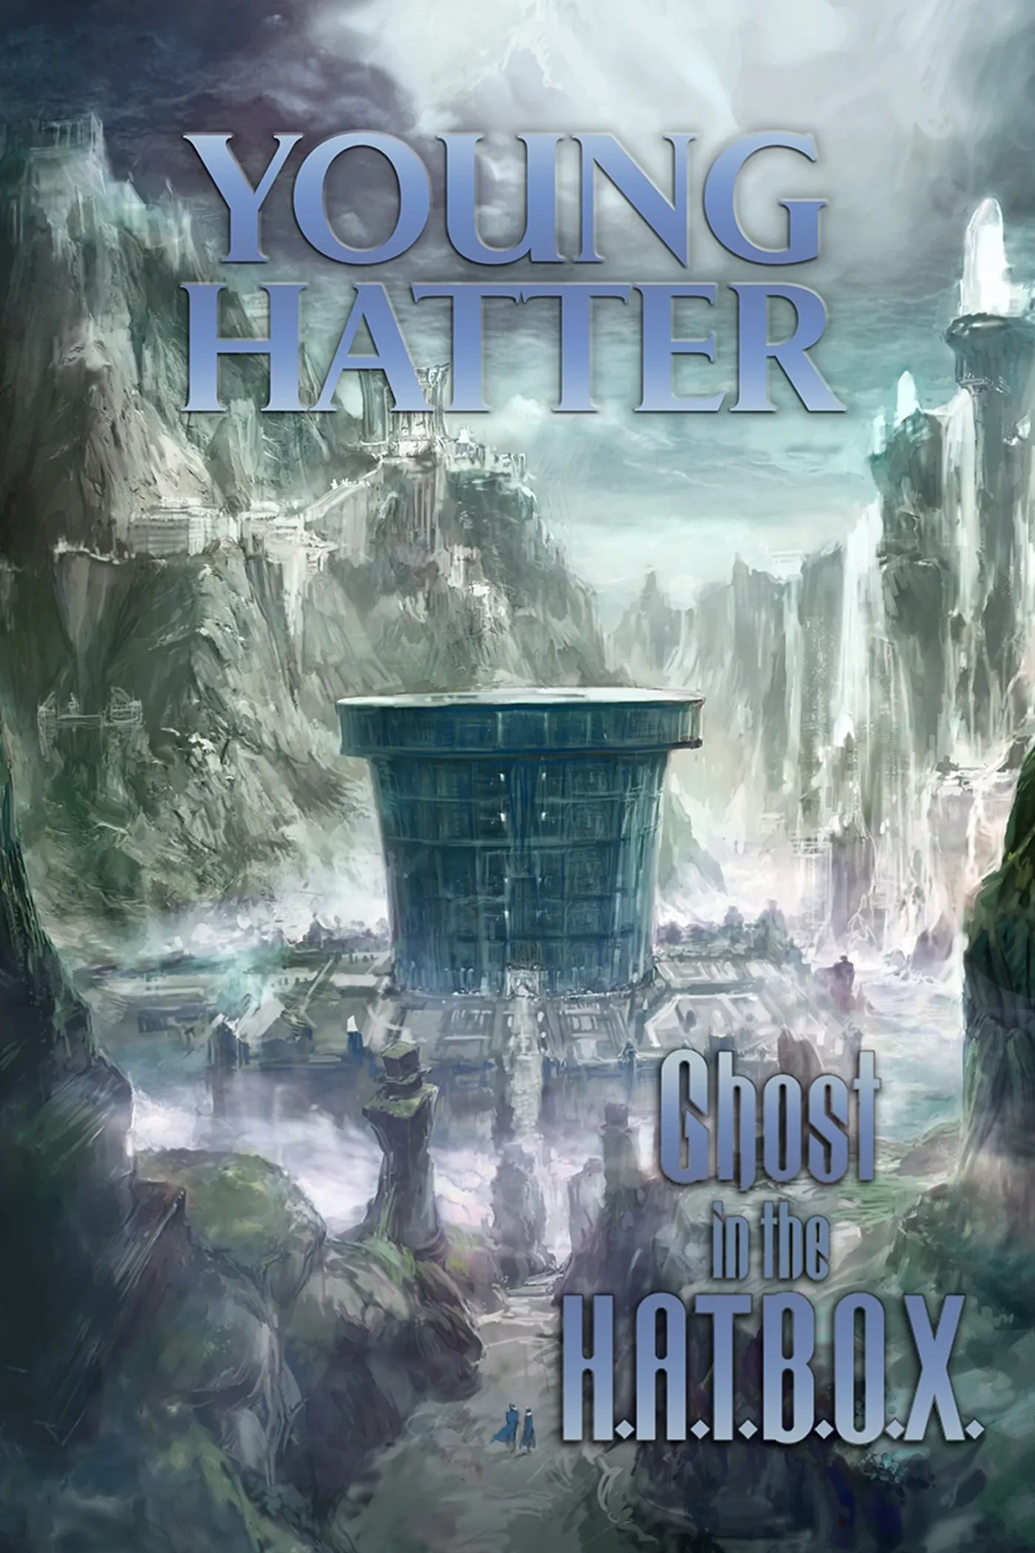
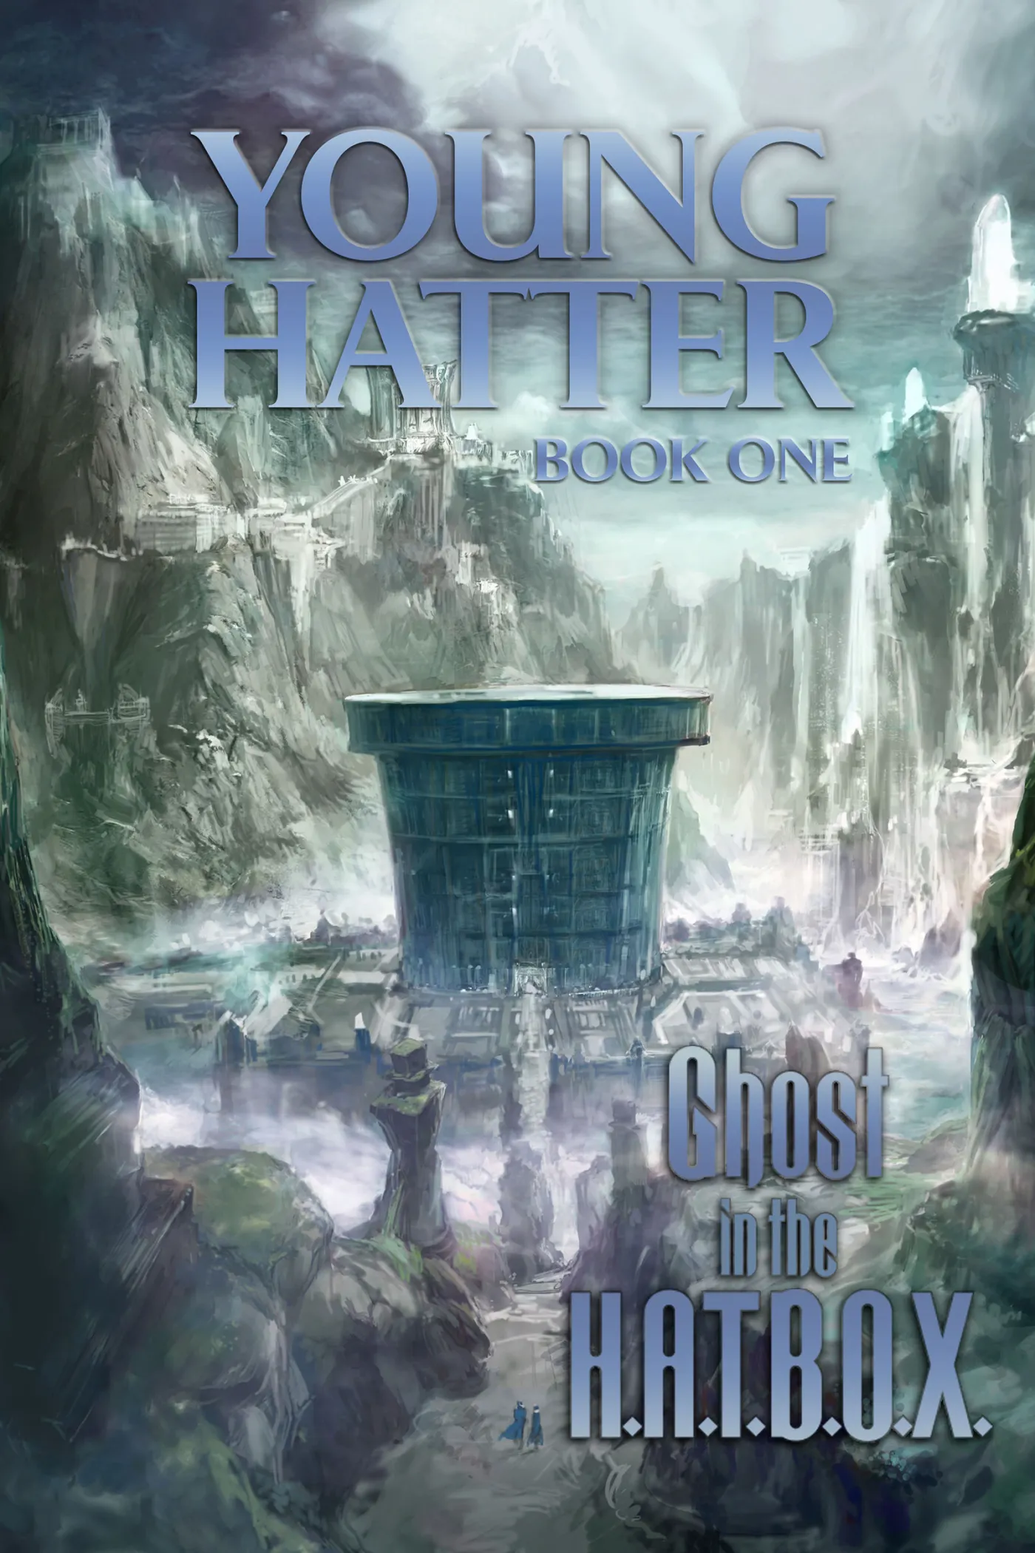
Frank 8/3 Phase 1: homepage text-shift (bridging captions) + Morpurgo quote + press video + new closing; move Sound of Wonder+Meet the Team to home; Visionaries (Explore btn + LGW Library + Visit the Library, Wild Cards under Enter the Millinery, Young Hatter cover); Millinery (Inside the HATBOX hea

diff --git a/index.html b/index.html
@@ -231,6 +231,21 @@
   .chapter .head-sm{ font-family:var(--display); font-weight:600; font-size:clamp(14px,3.2vw,20px); letter-spacing:.14em; color:var(--bone-dim); margin-bottom:22px; }
   .chapter .sub-sm{ font-family:var(--editorial); font-style:italic; font-size:clamp(17px,3.4vw,24px); line-height:1.4; color:var(--glow); margin-top:24px; }
   .quotes{ grid-template-columns:1fr !important; max-width:620px; margin-left:auto; margin-right:auto; }
+  /* Morpurgo quote */
+  .mquote{ max-width:720px; margin:0 auto; text-align:center; }
+  .mquote p{ font-family:var(--editorial); font-style:italic; font-size:clamp(20px,3.6vw,30px); line-height:1.45; color:var(--bone); }
+  .mquote cite{ display:block; margin-top:26px; font-family:var(--ui); font-style:normal; font-size:12px; letter-spacing:.18em; text-transform:uppercase; color:var(--glow); line-height:1.7; }
+  .mquote cite em{ font-style:italic; text-transform:none; letter-spacing:0; }
+  /* moved segments: Sound of Wonder + Meet the Team */
+  .seg{ text-align:center; margin-bottom:clamp(30px,5vh,56px); }
+  .seg-head{ font-family:var(--display); font-weight:900; font-size:clamp(30px,7vw,64px); line-height:1.04; letter-spacing:.04em; color:var(--bone); text-wrap:balance; text-shadow:0 0 50px rgba(143,215,255,.10); }
+  .seg-sub{ font-family:var(--editorial); font-style:italic; font-size:clamp(18px,3.4vw,27px); color:var(--glow); margin-top:16px; }
+  .musical-copy{ max-width:60ch; margin:44px auto 0; font-family:var(--editorial); font-size:clamp(18px,2.8vw,24px); line-height:1.5; color:var(--bone-dim); text-align:center; }
+  .team-text{ max-width:64ch; margin:0 auto; display:flex; flex-direction:column; gap:clamp(38px,6vh,66px); text-align:center; }
+  .team-text .vname{ font-family:var(--display); font-weight:700; font-size:clamp(22px,4.2vw,34px); letter-spacing:.02em; color:var(--bone); }
+  .team-text .credits{ font-family:var(--ui); font-size:clamp(12px,2vw,15px); letter-spacing:.04em; color:var(--bone-dim); margin:14px auto 0; max-width:54ch; line-height:1.6; }
+  .team-text .vbio{ font-family:var(--editorial); font-style:italic; font-size:clamp(18px,2.9vw,25px); line-height:1.44; color:var(--bone-dim); max-width:56ch; margin:14px auto 0; }
+
   @media (prefers-reduced-motion: reduce){
     body::after{ animation:none; }
     .kenburns .ph{ animation:none; }
@@ -241,25 +256,17 @@
 </head>
 <body>
 
-<!-- ==================== ACT I - THE STORY (image -> black text) ==================== -->
+<!-- ==================== ACT I - THE STORY (image -> bridging text below) ==================== -->
 <section class="panel img kenburns op-short">
   <div class="art"><div class="ph" data-img="assets/img/00-act1-lgw-logo.webp"></div></div>
 </section>
 <section class="panel card op-short">
   <div class="content">
-    <p class="ask rise">Go Ask Alyss</p>
+    <p class="ask rise">What if Wonderland Was Real All Along?</p>
   </div>
 </section>
 <section class="panel img kenburns">
   <div class="art"><div class="ph" data-img="assets/img/01-act1-wonderland-panorama.webp" data-img-wide="assets/img/01-act1-wonderland-panorama-wide.webp"><div class="cap"><span class="k">Art · Panorama</span><span class="t">Wondertropolis · Chessboard Desert · House of Cards</span></div></div></div>
-</section>
-<section class="panel card">
-  <div class="content">
-    <p class="ask rise">WHAT IF WONDERLAND WAS REAL ALL ALONG?</p>
-  </div>
-</section>
-<section class="panel img kenburns">
-  <div class="art"><div class="ph" data-img="assets/img/02-act1-aiw-cover.webp"><div class="cap"><span class="k">Art · Cover</span><span class="t">Alice&#39;s Adventures in Wonderland &mdash; original 1865 cover</span></div></div></div>
 </section>
 <section class="panel card">
   <div class="content wide">
@@ -268,7 +275,7 @@
   </div>
 </section>
 <section class="panel img kenburns">
-  <div class="art"><div class="ph" data-img="assets/img/03-act1-alyss-princess.webp"><div class="cap"><span class="k">Art · Kovacs / Appelhans</span><span class="t">Princess Alyss · Alyss&#39;s Birthday</span></div></div></div>
+  <div class="art"><div class="ph" data-img="assets/img/02-act1-aiw-cover.webp"><div class="cap"><span class="k">Art · Cover</span><span class="t">Alice&#39;s Adventures in Wonderland &mdash; original 1865 cover</span></div></div></div>
 </section>
 <section class="panel card">
   <div class="content">
@@ -277,7 +284,7 @@
   </div>
 </section>
 <section class="panel img kenburns">
-  <div class="art"><div class="ph" data-img="assets/img/04-act1-redd-bookcover.webp" data-img-wide="assets/img/04-act1-redd-bookcover-wide.webp"><div class="cap"><span class="k">Art · Vance Kovacs</span><span class="t">Redd &mdash; book cover</span></div></div></div>
+  <div class="art"><div class="ph" data-img="assets/img/03-act1-alyss-princess.webp"><div class="cap"><span class="k">Art · Kovacs / Appelhans</span><span class="t">Princess Alyss · Alyss&#39;s Birthday</span></div></div></div>
 </section>
 <section class="panel card">
   <div class="content">
@@ -286,7 +293,7 @@
   </div>
 </section>
 <section class="panel img kenburns">
-  <div class="art"><div class="ph" data-img="assets/img/05-act1-pool-of-tears.webp" data-img-wide="assets/img/05-act1-pool-of-tears-wide.webp"><div class="cap"><span class="k">Art · Brian Flora</span><span class="t">The Pool of Tears</span></div></div></div>
+  <div class="art"><div class="ph" data-img="assets/img/04-act1-redd-bookcover.webp" data-img-wide="assets/img/04-act1-redd-bookcover-wide.webp"><div class="cap"><span class="k">Art · Vance Kovacs</span><span class="t">Redd &mdash; book cover</span></div></div></div>
 </section>
 <section class="panel card">
   <div class="content wide">
@@ -295,7 +302,7 @@
   </div>
 </section>
 <section class="panel img kenburns">
-  <div class="art"><div class="ph" data-img="assets/img/06-act1-hatter-alyss-whirlpool.webp"><div class="cap"><span class="k">Art · Ben Templesmith</span><span class="t">Hatter &amp; Alyss in the Whirlpool</span></div></div></div>
+  <div class="art"><div class="ph" data-img="assets/img/05-act1-pool-of-tears.webp" data-img-wide="assets/img/05-act1-pool-of-tears-wide.webp"><div class="cap"><span class="k">Art · Brian Flora</span><span class="t">The Pool of Tears</span></div></div></div>
 </section>
 <section class="panel card">
   <div class="content">
@@ -305,7 +312,7 @@
   </div>
 </section>
 <section class="panel img kenburns">
-  <div class="art"><div class="ph" data-img="assets/img/07-act1-alyss-in-london.webp" data-img-wide="assets/img/07-act1-alyss-in-london-wide.webp"><div class="cap"><span class="k">Art · Toby Wilson</span><span class="t">Alyss in London</span></div></div></div>
+  <div class="art"><div class="ph" data-img="assets/img/06-act1-hatter-alyss-whirlpool.webp"><div class="cap"><span class="k">Art · Ben Templesmith</span><span class="t">Hatter &amp; Alyss in the Whirlpool</span></div></div></div>
 </section>
 <section class="panel card">
   <div class="content">
@@ -315,12 +322,12 @@
   </div>
 </section>
 <section class="panel img kenburns">
-  <div class="art"><div class="ph" data-img="assets/img/08-act1-carroll-reveal.webp" data-img-wide="assets/img/08-act1-carroll-reveal-wide.webp"><div class="cap"><span class="k">Art · Historical</span><span class="t">Lewis Carroll &amp; Alice Liddell</span></div></div></div>
+  <div class="art"><div class="ph" data-img="assets/img/07-act1-alyss-in-london.webp" data-img-wide="assets/img/07-act1-alyss-in-london-wide.webp"><div class="cap"><span class="k">Art · Toby Wilson</span><span class="t">Alyss in London</span></div></div></div>
 </section>
 <section class="panel card">
   <div class="content wide">
     <p class="line rise">Alone in Victorian England&hellip;</p>
-    <p class="line rise d1">Alyss told her story to Charles Dodgson.</p>
+    <p class="line rise d1">Alyss told her story to <b>Lewis Carroll.</b></p>
     <p class="line rise d1">He believed her grief.</p>
     <p class="line rise d2">He believed her fear.</p>
     <p class="line rise d2">He simply couldn&#39;t believe her world.</p>
@@ -330,12 +337,21 @@
   </div>
 </section>
 <section class="panel img kenburns">
-  <div class="art"><div class="ph" data-img="assets/img/09-act1-alice-vs-alyss.webp" data-img-wide="assets/img/09-act1-alice-vs-alyss-wide.webp"><div class="cap"><span class="k">Art · Comparison</span><span class="t">Tenniel&#39;s Alice vs Catia Chien&#39;s Alyss</span></div></div></div>
+  <div class="art"><div class="ph" data-img="assets/img/08-act1-carroll-reveal.webp" data-img-wide="assets/img/08-act1-carroll-reveal-wide.webp"><div class="cap"><span class="k">Art · Historical</span><span class="t">Lewis Carroll &amp; Alice Liddell</span></div></div></div>
 </section>
 <section class="panel card chapter">
   <div class="content">
     <p class="head-sm rise">PUT ASIDE WHAT YOU THINK YOU KNOW.</p>
     <p class="b rise d1">DISCOVER THE TRUTH</p>
+  </div>
+</section>
+<section class="panel img kenburns">
+  <div class="art"><div class="ph" data-img="assets/img/09-act1-alice-vs-alyss.webp" data-img-wide="assets/img/09-act1-alice-vs-alyss-wide.webp"><div class="cap"><span class="k">Art · Comparison</span><span class="t">Tenniel&#39;s Alice vs Catia Chien&#39;s Alyss</span></div></div></div>
+</section>
+<section class="panel card char">
+  <div class="content">
+    <p class="name rise">ALYSS HEART</p>
+    <p class="desc rise d1">She was born a princess.<br>She chose to become a queen.</p>
   </div>
 </section>
 
@@ -345,21 +361,12 @@
 </section>
 <section class="panel card char">
   <div class="content">
-    <p class="name rise d1">ALYSS HEART</p>
-    <p class="desc rise d2">She was born a princess.<br>She became a queen.</p>
-  </div>
-</section>
-<section class="panel img kenburns">
-  <div class="art"><div class="ph" data-img="assets/img/11-act2-hatter-on-smoke.webp" data-img-wide="assets/img/11-act2-hatter-on-smoke-wide.webp"><div class="cap"><span class="k">Art · MK</span><span class="t">Hatter on Smoke</span></div></div></div>
-</section>
-<section class="panel card char">
-  <div class="content">
     <p class="name rise">HATTER MADIGAN</p>
     <p class="desc rise d1">He crossed two worlds searching for someone who no longer remembered him.</p>
   </div>
 </section>
 <section class="panel img kenburns">
-  <div class="art"><div class="ph" data-img="assets/img/12-act2-redd.webp" data-img-wide="assets/img/12-act2-redd-wide.webp"><div class="cap"><span class="k">Art · Vance Kovacs</span><span class="t">Redd</span></div></div></div>
+  <div class="art"><div class="ph" data-img="assets/img/11-act2-hatter-on-smoke.webp" data-img-wide="assets/img/11-act2-hatter-on-smoke-wide.webp"><div class="cap"><span class="k">Art · MK</span><span class="t">Hatter on Smoke</span></div></div></div>
 </section>
 <section class="panel card char">
   <div class="content">
@@ -368,23 +375,35 @@
   </div>
 </section>
 <section class="panel img kenburns">
-  <div class="art"><div class="ph" data-img="assets/img/13-act2-the-cat.webp" data-img-wide="assets/img/13-act2-the-cat-wide.webp"><div class="cap"><span class="k">Art · Vance Kovacs</span><span class="t">The Attack Cat</span></div></div></div>
+  <div class="art"><div class="ph" data-img="assets/img/12-act2-redd.webp" data-img-wide="assets/img/12-act2-redd-wide.webp"><div class="cap"><span class="k">Art · Vance Kovacs</span><span class="t">Redd</span></div></div></div>
 </section>
 <section class="panel card char">
   <div class="content">
     <p class="name rise">THE CAT</p>
-    <p class="desc rise d1">He turned fear into a weapon &mdash; and became the nightmare no child ever forgets.</p>
-  </div>
-</section>
-<!-- ==================== ACT III - THE STORY THAT NEVER ENDED ==================== -->
-<section class="panel card">
-  <div class="content">
-    <p class="ask rise">EVERYTHING BEGAN HERE.</p>
+    <p class="desc rise d1">He began as a weapon. He became something more.</p>
   </div>
 </section>
 <section class="panel img kenburns">
+  <div class="art"><div class="ph" data-img="assets/img/13-act2-the-cat.webp" data-img-wide="assets/img/13-act2-the-cat-wide.webp"><div class="cap"><span class="k">Art · Vance Kovacs</span><span class="t">The Attack Cat</span></div></div></div>
+</section>
+<section class="panel card">
+  <div class="content">
+    <p class="ask rise">Alyss&#39;s Story Starts Here</p>
+  </div>
+</section>
+
+<!-- ==================== ACT III ==================== -->
+<section class="panel img kenburns">
   <div class="art"><div class="ph" data-img="assets/img/14-act3-lgw-cover.webp"><div class="cap"><span class="k">Cover</span><span class="t">The Looking Glass Wars</span></div></div></div>
 </section>
+
+<!-- Morpurgo quote -->
+<div class="band" style="padding:clamp(70px,13vh,150px) 0"><div class="inner">
+  <blockquote class="mquote rise">
+    <p>&ldquo;I think the remarkable thing about the book is it&#39;s very vibrant, it&#39;s imaginative, it&#39;s visual, it&#39;s very well researched. What Frank has done is he&#39;s interwoven the history&hellip; of Alice and then told his own extraordinary, and believably visual and fast-moving tale.&rdquo;</p>
+    <cite class="rise d1">&mdash; Sir Michael Morpurgo,<br>Author of <em>War Horse</em>, Children&#39;s Laureate</cite>
+  </blockquote>
+</div></div>
 
 <div class="stack-band">
   <!-- Authority: NYT Bestseller (designed white-on-black graphic) + press acclaim -->
@@ -441,7 +460,7 @@
   <!-- Media Interest (Frank Beddor Press Reel) -->
   <div class="band" style="padding-top:0"><div class="inner">
     <span class="eyebrow rise">Media Interest</span>
-    <div class="ytfacade rise d1" data-yt="_mW_imW4gqg" style="max-width:860px;margin:6px auto 0;aspect-ratio:16/9;background-image:url('assets/img/media-interest-thumb.webp')"><button class="ytplay" aria-label="Play - Frank Beddor Press Reel"></button></div>
+    <div class="ytfacade rise d1" data-yt="VfYlsYILhIY" style="max-width:860px;margin:6px auto 0;aspect-ratio:16/9;background-image:url('assets/img/media-interest-thumb.webp')"><button class="ytplay" aria-label="Play - Frank Beddor Press Reel"></button></div>
   </div></div>
 
   <!-- Closing -->
@@ -453,14 +472,31 @@
     <p class="final rise d3">IMAGINATION CHANGES REALITY.</p>
     <div class="creed rise" style="margin-top:38px">
       <p class="l">Every invention begins as an idea.</p>
-      <p class="l">Every civilization begins as a story.</p>
+      <p class="l">Every civilization has its story.</p>
       <p class="l">Whoever shapes imagination shapes the future.</p>
-      <p class="l strong">That&#39;s what&#39;s at stake in The Looking Glass Wars.</p>
+      <p class="l strong">That is the Looking Glass Wars.</p>
     </div>
-    <div class="ytfacade rise" data-yt="JhD3f9caS5o" style="max-width:760px;margin:clamp(150px,28vh,320px) auto 0;aspect-ratio:16/9;background-image:url('assets/img/wildcards-thumb.webp')"><button class="ytplay" aria-label="Play - Cards Wild Trailer"></button></div>
-    <div class="choices rise" style="margin-top:46px">
-      <a class="btn" href="visionaries.html">Visions of Wonderland</a>
+  </div></div>
+
+  <!-- The Sound of Wonder (moved from Visionaries) -->
+  <div class="band"><div class="inner">
+    <div class="seg"><div class="seg-head rise">The Sound of Wonder</div><div class="seg-sub rise d1">When the heart can no longer speak&hellip; it sings.</div></div>
+    <div class="center"><div class="ytfacade rise" data-yt="BaXb30RQfa8" style="max-width:340px;aspect-ratio:9/16;background-image:url('assets/img/viz-aow-thumb.webp')"><button class="ytplay" aria-label="Play - Follow the Glow"></button></div></div>
+    <p class="musical-copy rise">The Looking Glass Wars is an epic musical with a soaring pop-inspired score, breathtaking spectacle, and timeless themes of identity, love, courage, and imagination.</p>
+  </div></div>
+
+  <!-- Meet the Team (moved from Visionaries) -->
+  <div class="band" style="padding-top:0"><div class="inner">
+    <div class="center" style="margin-bottom:clamp(30px,5vh,60px)"><span class="eyebrow rise">Meet the Team</span></div>
+    <div class="team-text">
+      <div class="rise"><div class="vname">Music &amp; Lyrics &mdash; Pippa Cleary</div><p class="credits">The Great British Bake Off Musical &bull; The Secret Diary of Adrian Mole Aged 13&frac34; &ndash; The Musical &bull; My Son&#39;s a Queer (But What Can You Do?) (Olivier Award nominee)</p><p class="vbio">The first female composer to have three original musicals produced on London&#39;s West End.</p></div>
+      <div class="rise d1"><div class="vname">Book &amp; Lyrics &mdash; Shaun McKenna</div><p class="credits">The Lord of the Rings &ndash; A Musical Tale &bull; The Return of Peter Pan &bull; Heidi</p><p class="vbio">One of Britain&#39;s most accomplished musical dramatists, Shaun has built his career adapting beloved literary worlds.</p></div>
     </div>
+  </div></div>
+
+  <!-- final CTA -->
+  <div class="band" style="padding-top:0"><div class="inner">
+    <div class="choices rise"><a class="btn" href="visionaries.html">Visions of Wonderland</a></div>
   </div></div>
 </div>
 

diff --git a/visionaries.html b/visionaries.html
@@ -153,28 +153,12 @@
   </div>
 </section>
 
-<!-- THE SOUNDS OF WONDER (musical) -->
+<!-- Explore Wonderland + Library (moved/added) -->
 <section class="band">
-  <div class="wrap">
-    <div class="seg">
-      <div class="seg-head rise">The Sounds of Wonder</div>
-      <div class="seg-sub rise d1">When the heart can no longer speak&hellip; it sings.</div>
-    </div>
-    <div class="center">
-      <div class="ytfacade rise" data-yt="BaXb30RQfa8" style="max-width:340px;aspect-ratio:9/16;background-image:url('assets/img/viz-aow-thumb.webp')"><button class="ytplay" aria-label="Play - Follow the Glow"></button></div>
-    </div>
-    <p class="musical-copy rise">The Looking Glass Wars is an epic musical with a soaring pop-inspired score, breathtaking spectacle, and timeless themes of identity, love, courage, and imagination.</p>
-  </div>
-</section>
-
-<!-- MEET THE TEAM (text only) -->
-<section class="band" style="background:var(--void-2)">
-  <div class="wrap">
-    <div class="center" style="margin-bottom:clamp(30px,5vh,60px)"><span class="eyebrow rise">Meet the Team</span></div>
-    <div class="team-text">
-      <div class="rise"><div class="vname">Music &amp; Lyrics &mdash; Pippa Cleary</div><p class="credits">The Great British Bake Off Musical &bull; The Secret Diary of Adrian Mole Aged 13&frac34; &ndash; The Musical &bull; My Son&#39;s a Queer (But What Can You Do?) (Olivier Award nominee)</p><p class="vbio">The first female composer to have three original musicals produced on London&#39;s West End.</p></div>
-      <div class="rise d1"><div class="vname">Book &amp; Lyrics &mdash; Shaun McKenna</div><p class="credits">The Lord of the Rings &ndash; A Musical Tale &bull; The Return of Peter Pan &bull; Heidi</p><p class="vbio">One of Britain&#39;s most accomplished musical dramatists, Shaun has built his career adapting beloved literary worlds.</p></div>
-    </div>
+  <div class="wrap center">
+    <div class="rise"><a class="btn" href="explore.html">Explore Wonderland</a></div>
+    <div class="keyart rise d1" style="max-width:900px;margin:clamp(50px,9vh,90px) auto 0"><img src="assets/img/viz-lgw-library.webp" alt="The Looking Glass Wars Library" loading="lazy"></div>
+    <div class="rise d1" style="margin-top:clamp(34px,5vh,50px)"><a class="btn" href="library.html">Visit the Library</a></div>
   </div>
 </section>
 
@@ -201,7 +185,6 @@
     </div>
     <div class="keyart rise" style="max-width:520px;margin:0 auto"><img src="assets/img/viz-dormouse.webp" alt="The Dormouse — Blade of Time graphic novel" loading="lazy"></div>
     <p class="flavor rise">The Dormouse&#39;s consciousness no longer belongs to one timeline. As Hatter Madigan is pulled between past and present&hellip; every decision threatens to rewrite history.</p>
-    <div class="rise" style="margin-top:52px"><a class="btn" href="explore.html">Explore Wonderland</a></div>
   </div>
 </section>
 
@@ -214,6 +197,7 @@
     <div class="keyart rise" style="max-width:440px;margin:0 auto"><img src="assets/img/viz-young-hatter-cover.webp" alt="Young Hatter — Girl in the Hatbox cover" loading="lazy"></div>
     <p class="bodytext rise">The Millinery trains Wonderland&#39;s most elite soldiers &mdash; warriors whose weapons are their hats. Getting in is the hard part. Surviving year one is harder. Young Hatter is a propulsive new adventure featuring a teenage Hatter Madigan &mdash; the most beloved character from Frank Beddor&#39;s series.</p>
     <div class="rise" style="margin-top:52px"><a class="btn" href="millinery.html">Enter the Millinery</a></div>
+    <div class="ytfacade rise d1" data-yt="JhD3f9caS5o" style="max-width:760px;margin:clamp(48px,8vh,90px) auto 0;aspect-ratio:16/9;background-image:url('assets/img/wildcards-thumb.webp')"><button class="ytplay" aria-label="Play - Cards Wild Trailer"></button></div>
   </div>
 </section>
 

diff --git a/millinery.html b/millinery.html
@@ -57,8 +57,8 @@
 
   /* THE SEVEN THREADS — moody color gradient */
   .threads{ background:linear-gradient(180deg,
-      #050406 0%, #2c0c11 10%, #3a1a08 26%, #33290b 43%,
-      #0d2416 60%, #0a1a2e 77%, #1b0f29 92%, #050406 100%); }
+      #050406 0%, #2c0c11 9%, #3a1a08 22%, #33290b 35%,
+      #0d2416 48%, #0a1a2e 61%, #1b0f29 74%, #3a1250 87%, #050406 100%); }
   .thread{ padding:clamp(56px,11vh,120px) var(--pad); text-align:center; }
   .thread .tsub{ font-family:var(--display); font-weight:700; font-size:clamp(20px,4.4vw,34px); letter-spacing:.06em; }
   .thread .ttext{ font-family:var(--editorial); font-size:clamp(18px,3vw,26px); line-height:1.45; color:#f4f0ea; margin:14px auto 0; max-width:44ch; }
@@ -103,7 +103,7 @@
     <div class="seg"><div class="seg-head rise">The H.A.T.B.O.X.</div></div>
     <div class="imgwrap rise" style="max-width:520px"><img class="wide" src="assets/img/mil-hatbox.webp" alt="The H.A.T.B.O.X. — Tae Young Choi" loading="lazy"></div>
     <p class="bodytext rise">Holographic and Transmutative Base of Xtreme Combat.</p>
-    <div class="subhead rise" style="margin-top:clamp(44px,8vh,88px)">Training</div>
+    <div class="seg-head rise" style="margin-top:clamp(44px,8vh,88px)">Inside the H.A.T.B.O.X.</div>
     <div class="imgwrap rise" style="max-width:520px"><img class="wide" src="assets/img/mil-hatter-jabber.webp" alt="Hatter fights the Jabberwock" loading="lazy"></div>
     <p class="bodytext rise">Inside the H.A.T.B.O.X., Cadets battle holographic creatures, impossible missions, and simulated battles that adapt, evolve, and challenge every weakness.</p>
   </div>
@@ -124,8 +124,9 @@
   <div class="thread rise"><div class="tsub" style="color:#ffb478">Orange &mdash; Strength</div><p class="ttext">Transforms hats and equipment into powerful tools and weapons.</p></div>
   <div class="thread rise"><div class="tsub" style="color:#efd489">Yellow &mdash; Energy</div><p class="ttext">Generates, stores, and channels raw energy.</p></div>
   <div class="thread rise"><div class="tsub" style="color:#98dfae">Green &mdash; Growth</div><p class="ttext">Heals wounds, restores equipment, and nurtures life.</p></div>
-  <div class="thread rise"><div class="tsub" style="color:#9cc6ff">Blue &mdash; Connection</div><p class="ttext">Expands awareness, communication, and perception beyond ordinary senses.</p></div>
+  <div class="thread rise"><div class="tsub" style="color:#9cc6ff">Blue &mdash; Perception</div><p class="ttext">Expands awareness, communication, and perception beyond ordinary senses.</p></div>
   <div class="thread rise"><div class="tsub" style="color:#c8a6f2">Indigo &mdash; Consciousness</div><p class="ttext">Awakens sentience in objects and influences living minds.</p></div>
+  <div class="thread rise"><div class="tsub" style="color:#d9aaff">Violet &mdash; Connection</div><p class="ttext">Connects all living creatures together in a vast web of consciousness.</p></div>
 </section>
 
 <!-- MEET THE CADETS -->
